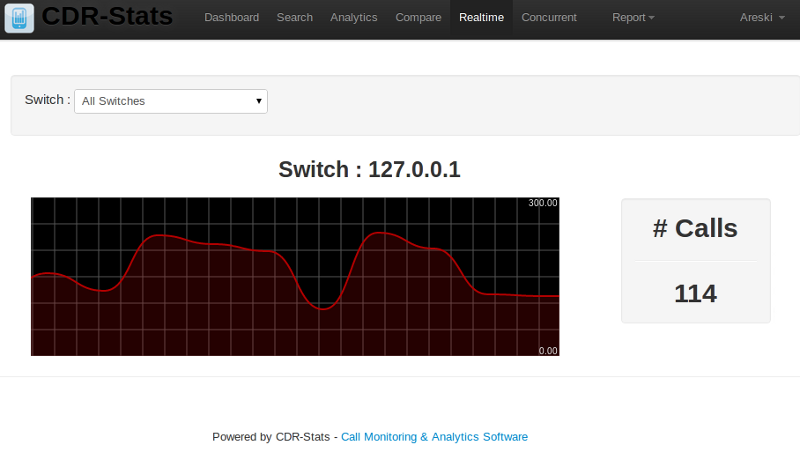
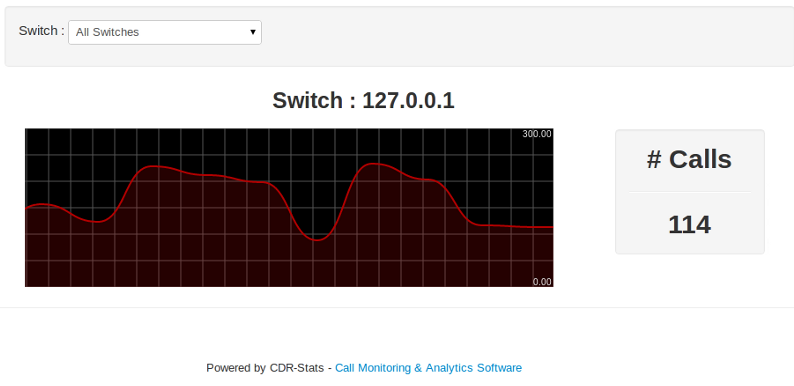
updated doc frontend UI images

diff --git a/docs/source/user-guide-doc/customer_panel.rst b/docs/source/user-guide-doc/customer_panel.rst
@@ -27,7 +27,7 @@ Index
 Index page for the customer interface after successful login with user credentials
 
 .. image:: ../_static/images/customer/index.png
-    :width: 1000
+    :width: 700
 
 Dashboard
 ~~~~~~~~~
@@ -41,7 +41,7 @@ and calls by country, either agregrated for all switches, or selectable by switc
 
 
 .. image:: ../_static/images/customer/dashboard.png
-    :width: 1000
+    :width: 700
 
 CDR-View
 ~~~~~~~~
@@ -57,11 +57,11 @@ The Report by Day shows a graphical illustration of the calls, minutes and avera
     * http://localhost:8000/cdr_view/
 
 .. image:: ../_static/images/customer/cdr_view_I.png
-    :width: 1000
+    :width: 700
 
 
 .. image:: ../_static/images/customer/cdr_view_II.png
-    :width: 1000
+    :width: 700
 
 CDR-Overview
 ~~~~~~~~~~~~
@@ -74,7 +74,7 @@ A pictorial view of calls with call-count or call-duration from any date or date
 
 
 .. image:: ../_static/images/customer/cdr_overview.png
-    :width: 1000
+    :width: 700
 
 
 CDR-Hourly-Report
@@ -88,7 +88,7 @@ You can compare different dates
     * http://localhost:8000/hourly_report/
 
 .. image:: ../_static/images/customer/call_compare.png
-    :width: 1000
+    :width: 700
 
 
 CDR-Country-Report
@@ -102,7 +102,7 @@ A pictorial view of all calls by country with the 10 most called countries in a 
 
 
 .. image:: ../_static/images/customer/country_report.png
-    :width: 1000
+    :width: 700
 
 Mail-Report
 ~~~~~~~~~~~
@@ -119,7 +119,7 @@ in the Mail Report section.
     * http://localhost:8000/mail_report/
 
 .. image:: ../_static/images/customer/mail_report.png
-    :width: 1000
+    :width: 700
 
 Concurrent-call-report
 ~~~~~~~~~~~~~~~~~~~~~~
@@ -132,7 +132,7 @@ report, not from the CDR.
     * http://localhost:8000/cdr_concurrent_calls/
 
 .. image:: ../_static/images/customer/concurrent_call.png
-    :width: 1000
+    :width: 700
 
 
 Realtime-Report
@@ -146,7 +146,7 @@ Freeswitch and Asterisk are supported.
     * http://localhost:8000/cdr_realtime/
 
 .. image:: ../_static/images/customer/realtime.png
-    :width: 1000
+    :width: 700
 
 
 World Map Report
@@ -160,6 +160,9 @@ and on mouse over on the world map you can get information about each country.
 
     * http://localhost:8000/world_map/
 
-.. image:: ../_static/images/customer/world_map.png
-    :width: 1000
+.. image:: ../_static/images/customer/world_map_I.png
+    :width: 700
 
+
+.. image:: ../_static/images/customer/world_map_II.png
+    :width: 700
